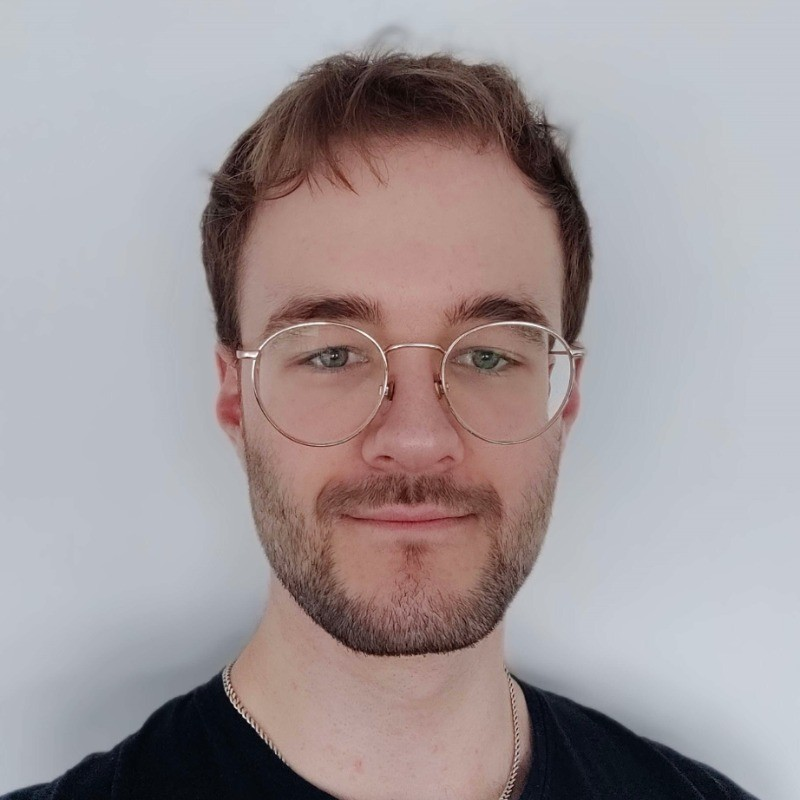
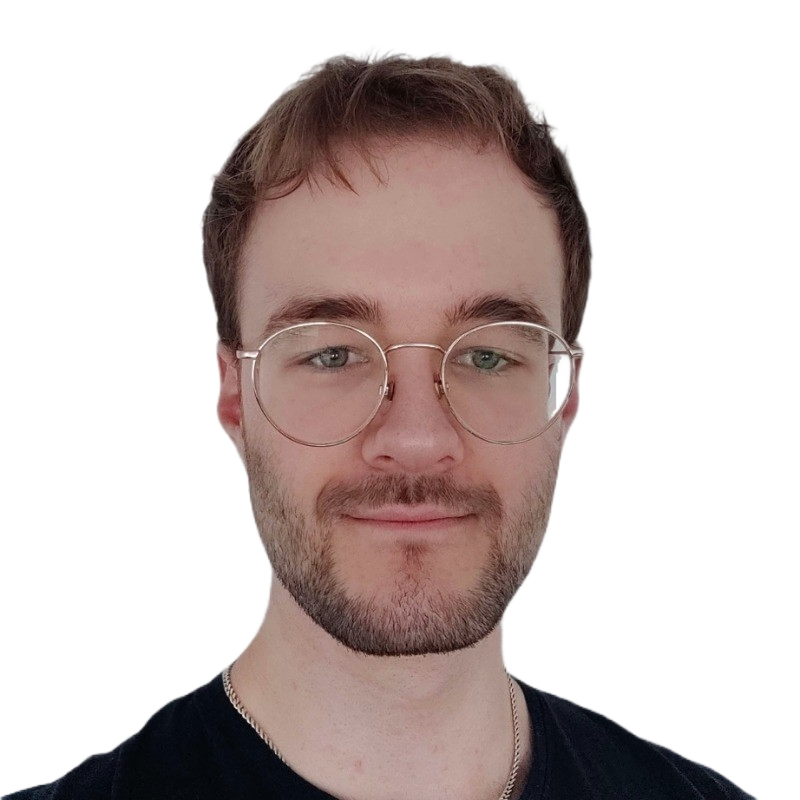
new design

diff --git a/Frontend/src/App.css b/Frontend/src/App.css
@@ -35,7 +35,7 @@
 }
 
 .main-header {
-    /*background: linear-gradient(90deg, rgba(0,190,177,0.18) 0%, rgba(0,0,0,0.7) 100%), rgba(30,30,30,0.92);*/
+    background: linear-gradient(90deg, rgba(0,190,177,0.18) 0%, rgba(0,0,0,0.5) 100%), rgba(30,30,30,0.92);
     padding: 1rem 0;
     position: sticky;
     top: 0;
@@ -147,7 +147,7 @@
     text-shadow: 0 2px 8px rgba(0,0,0,0.04);
 }
 .social-icons {
-    margin-bottom: 2.25rem;
+    margin-bottom: 3rem;
     display: flex;
     flex-direction: row;
     gap: 1.1rem;
@@ -162,16 +162,6 @@
     z-index: 2;
     background: none;
     padding: 3rem 0 3rem 2rem;
-}
-.hero-image-container {
-    width: 420px;
-    height: 420px;
-    border-radius: 50%;
-    overflow: hidden;
-    border: 7px solid var(--accent-main);
-    box-shadow: 0 0 50px 0 rgba(0,190,177,0.28), 0 8px 40px rgba(0,0,0,0.28);
-    background: linear-gradient(135deg, var(--dark-grey-bg) 60%, var(--accent-main) 100%);
-    position: relative;
 }
 .hero-image {
     width: 100%;
@@ -190,10 +180,6 @@
     }
     .hero-text-content, .hero-image-wrapper {
         padding: 2rem 0;
-    }
-    .hero-image-container {
-        width: 220px;
-        height: 220px;
     }
 }
 
@@ -237,7 +223,7 @@
 
 .skill-item:hover {
     transform: translateY(-2px) scale(1.02);
-    background-color: var(--accent-dark);
+    background-color: var(--accent-main);
 }
 
 .skill-text {
@@ -331,7 +317,7 @@
 }
 
 .dropdown-menu {
-    /*background: linear-gradient(90deg, rgba(0,190,177,0.18) 0%, rgba(0,0,0,0.7) 100%), rgba(30,30,30,0.92);*/
+    background: linear-gradient(90deg, rgba(0,190,177,0.18) 0%, rgba(0,0,0,0.5) 100%), rgba(30,30,30,0.92);
     box-shadow: 0 4px 24px 0 rgba(0,190,177,0.13), 0 2px 12px rgba(0,0,0,0.38);
     border-radius: 0.5rem;
     min-width: 180px;
@@ -375,19 +361,19 @@
     position: absolute;
     z-index: 1;
     top: 0; left: 0; right: 0; bottom: 0;
-    background: radial-gradient(ellipse at center, rgba(0,0,0,0) 0%, rgba(0,0,0,0.10) 40%, rgba(0,0,0,0.22) 75%, rgba(0,0,0,0.64) 100%);
+    background: radial-gradient(ellipse at center, rgba(0,0,0,0) 0%, rgba(0,0,0,0.10) 40%, rgba(0,0,0,0.22) 75%, rgba(0, 0, 0, 0.44) 100%);
     opacity: 1;
     mix-blend-mode: multiply;
 }
 
 .social-icon-img {
-    width: 2.25rem;
-    height: 2.25rem;
+    width: 3rem;
+    height: 3rem;
     margin-right: 0.18rem;
     transition: transform 0.22s cubic-bezier(0.23,1,0.32,1), box-shadow 0.22s, background 0.22s;
     border-radius: 50%;
     box-shadow: 0 2px 8px rgba(0,190,177,0.12);
-    background: white;
+    background: black;
     padding: 0.08rem;
 }
 .social-icon-img:hover {
@@ -450,10 +436,6 @@ a:focus-visible {
     }
     .social-icons {
         justify-content: center;
-    }
-    .hero-image-container {
-        width: 500px;
-        height: 500px;
     }
     .section-heading {
         font-size: 2rem;

diff --git a/Frontend/src/App.jsx b/Frontend/src/App.jsx
@@ -110,14 +110,12 @@ const App = () => {
                                     </div>
                                 </div>
                                 <div className="hero-image-wrapper">
-                                    <div className="hero-image-container">
-                                        <img
+                                    <img
                                             src="/assets/selfie.png"
                                             alt="Hugo Eklund"
                                             className="hero-image"
                                             onError={(e) => { e.target.onerror = null; e.target.src = "https://placehold.co/400x400/9CA3AF/FFFFFF?text=Photo"; } } />
                                     </div>
-                                </div>
                             </div>
                         </section>
                         <section ref={aboutRef} className="about-section">
@@ -192,7 +190,26 @@ const App = () => {
                         </section>
                         <footer className="main-footer">
                             <div className="section-container">
-                                <p>&copy; {new Date().getFullYear()} Hugo Eklund. All rights reserved.</p>
+                                <button
+                                    className="to-top-btn"
+                                    aria-label="Scroll to top"
+                                    onClick={() => window.scrollTo({ top: 0, behavior: 'smooth' })}
+                                    style={{
+                                        display: 'block',
+                                        margin: '0 auto 1.5rem auto',
+                                        background: 'none',
+                                        border: 'none',
+                                        color: 'var(--accent-main)',
+                                        fontSize: '2.2rem',
+                                        cursor: 'pointer',
+                                        transition: 'color 0.2s',
+                                    }}
+                                    onMouseOver={e => e.currentTarget.style.color = '#fff'}
+                                    onMouseOut={e => e.currentTarget.style.color = 'var(--accent-main)'}
+                                >
+                                    ▲
+                                </button>
+                                <p>&copy; {new Date().getFullYear()} Hugo Eklund All rights reserved.</p>
                                 <p className="footer-text-secondary">Built with React and CSS. Hosted on my NAS</p>
                             </div>
                         </footer>
